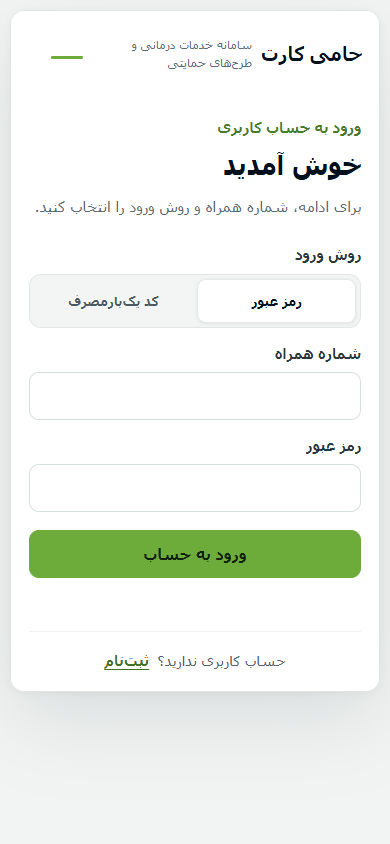
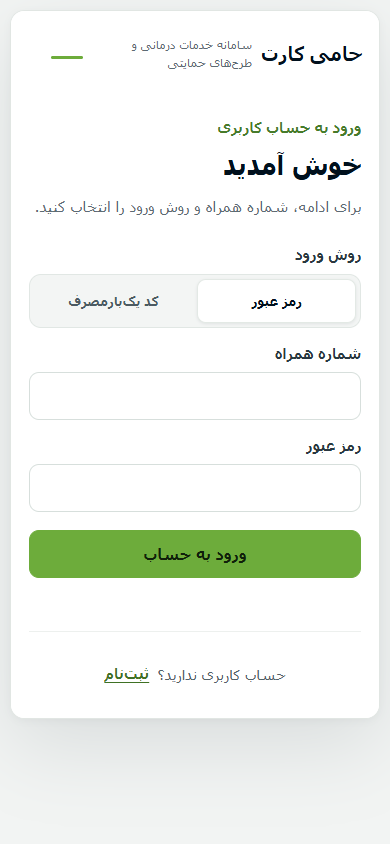
fix(web): align Wave 44 auth panel and touch targets

Changed region(s): [[0.0308, 0.7701, 0.9846, 0.8626]]

diff --git a/apps/web/styles.css b/apps/web/styles.css
@@ -146,7 +146,7 @@ li { margin: .65rem 0; overflow-wrap: anywhere; }
 }
 .auth-shell {
   display: grid;
-  grid-template-columns: minmax(0, .78fr) minmax(0, 1.22fr);
+  grid-template-columns: minmax(0, .85fr) minmax(0, 1.15fr);
   width: min(100%, 70rem);
   min-height: 40rem;
   overflow: hidden;
@@ -215,7 +215,7 @@ li { margin: .65rem 0; overflow-wrap: anywhere; }
 .auth-form :focus-visible, .auth-footer-link:focus-visible { outline: 3px solid var(--auth-green); outline-offset: 3px; }
 .auth-status { min-height: 1.25rem; margin: -.4rem 0 0; color: #46555d; font-size: .85rem; line-height: 1.6; overflow-wrap: anywhere; }
 .auth-footer { margin-block-start: 1.5rem; padding-block-start: 1.25rem; border-block-start: 1px solid #edf0ee; color: #536169; font-size: .9rem; text-align: center; }
-.auth-footer-link { margin-inline-start: .25rem; color: #3f7124; font-weight: 800; text-underline-offset: .2em; }
+.auth-footer-link { display: inline-flex; align-items: center; min-height: 2.75rem; margin-inline-start: .25rem; color: #3f7124; font-weight: 800; text-underline-offset: .2em; }
 @media (max-width: 760px) {
   .auth-page { place-items: start center; padding: 1rem; }
   .auth-shell { grid-template-columns: minmax(0, 1fr); width: min(100%, 31rem); min-height: 0; border-radius: 1.1rem; }
